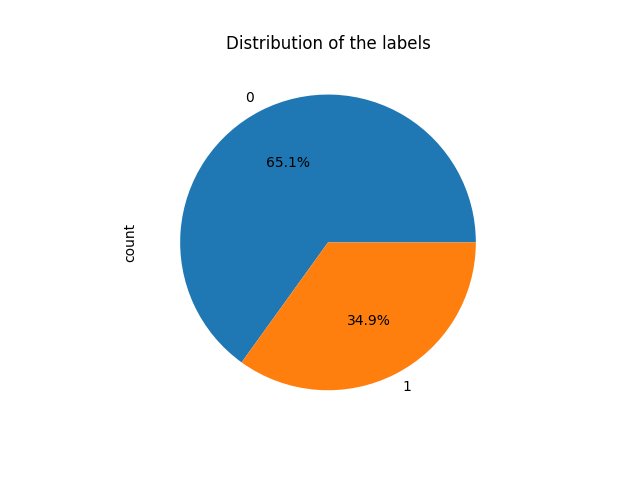
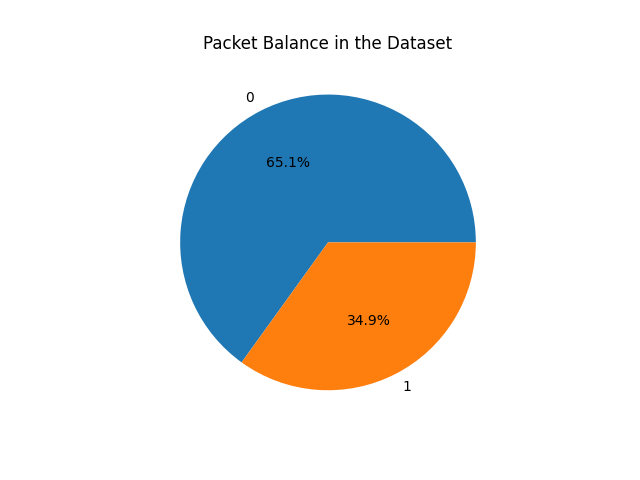
adjusted plots

Changed region(s): [[0.3125, 0.0625, 0.7188, 0.125], [0.1875, 0.4688, 0.2188, 0.5625]]

diff --git a/DatasetEvaluatrion.py b/DatasetEvaluatrion.py
@@ -3,9 +3,9 @@ import matplotlib.pyplot as plt
 
 data = pd.read_csv('Dataset/TON_IoT/Train_Test_Network.csv')
 
-count = data['type'].value_counts()
+count = data['label'].value_counts()
 
-count.plot(kind='bar')
-
-plt.title('Distribution of the labels')
+count.plot(kind='pie', autopct='%1.1f%%')
+plt.ylabel('')
+plt.title('Packet Balance in the Dataset')
 plt.show()
